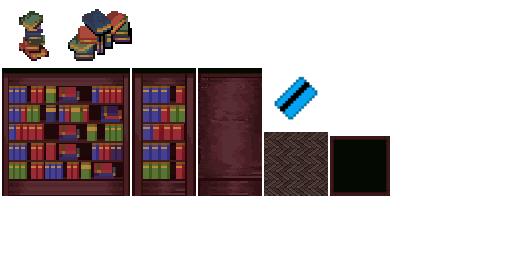
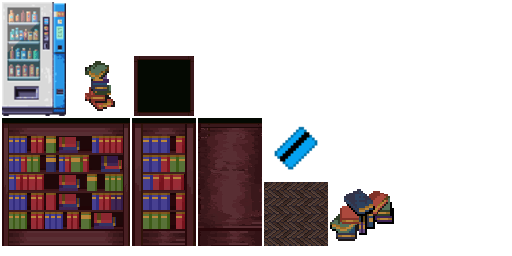
Add EventsCounter for tracking game events; implement vending machine and keycard interactions

diff --git a/core/src/main/java/com/mathochist/mazegame/World/Objects/VendingMachine.java b/core/src/main/java/com/mathochist/mazegame/World/Objects/VendingMachine.java
@@ -1,0 +1,68 @@
+package com.mathochist.mazegame.World.Objects;
+
+import com.badlogic.gdx.Gdx;
+import com.badlogic.gdx.graphics.g2d.Sprite;
+import com.badlogic.gdx.graphics.g2d.SpriteBatch;
+import com.badlogic.gdx.graphics.g2d.TextureAtlas;
+import com.badlogic.gdx.graphics.g2d.TextureRegion;
+import com.mathochist.mazegame.Entities.MapEntity;
+import com.mathochist.mazegame.Entities.Player;
+import com.mathochist.mazegame.Entities.PlayerInventory.InventoryObject;
+import com.mathochist.mazegame.Main;
+import com.mathochist.mazegame.Rendering.RenderBuffer;
+import com.mathochist.mazegame.Rendering.RenderObject;
+import com.mathochist.mazegame.UI.Hud;
+import com.mathochist.mazegame.UI.Speech.SpeechType;
+import com.mathochist.mazegame.World.GameWorld;
+
+public class VendingMachine extends MapEntity {
+
+    private boolean used;
+    private static final long INTERACTION_COOLDOWN_MS = 2000;
+    private long lastInteractionTime = 0;
+
+    public VendingMachine(Main game, SpriteBatch batch, TextureAtlas atlas, Integer TileX, Integer TileY, Integer Width, Integer Height, Boolean collidable) {
+        super(game, batch, atlas, "vending_machine", TileX, TileY, Width, Height, collidable);
+
+        used = game.getPlayerInventory().hasItem(InventoryObject.ENERGY_DRINK); // If player already has energy drink, mark as used
+    }
+
+    @Override
+    public void render(GameWorld world, RenderBuffer renderBuffer) {
+        TextureRegion vmRegion = super.getAtlas().findRegion(super.getRegionName());
+        Sprite vmSprite = new Sprite(vmRegion);
+        vmSprite.setPosition(
+            super.getTileX() * world.getMap().getTileWidth(),
+            Gdx.graphics.getHeight() - ((super.getTileY() + 1) * world.getMap().getTileHeight() + world.tileDrawYOffset + world.getDeltaViewportHeight())
+        );
+        renderBuffer.addToBuffer(new RenderObject(
+            vmSprite,
+            super.getBatch(),
+            (int) super.getTileY() + 2
+        ));
+    }
+
+    @Override
+    public boolean onInteract(Player p, GameWorld world, Hud worldHud) {
+        long currentTime = System.currentTimeMillis();
+        if (currentTime - lastInteractionTime < INTERACTION_COOLDOWN_MS) {
+            return true;
+        }
+        lastInteractionTime = currentTime;
+        if (used) {
+            worldHud.getSpeechBubbleManager().removeBubblesOfType(SpeechType.NPC_SPEECH);
+            worldHud.getSpeechBubbleManager().createSpeechBubble(SpeechType.NPC_SPEECH, "The vending machine is empty.", 2000);
+            return true;
+        }
+        used = true;
+        super.game.getPlayerInventory().addItem(InventoryObject.ENERGY_DRINK);
+        worldHud.getSpeechBubbleManager().removeBubblesOfType(SpeechType.NPC_SPEECH);
+        worldHud.getSpeechBubbleManager().createSpeechBubble(SpeechType.NPC_SPEECH, "You got an energy drink, You are suddenly feeling fast!", 2000);
+        super.game.getEventsCounter().vendingMachineEvent();
+        return true;
+    }
+
+    @Override
+    public void onInteractEnd(Player p, GameWorld world) {} // No action needed on interaction end
+
+}

diff --git a/core/src/main/java/com/mathochist/mazegame/Entities/Player.java b/core/src/main/java/com/mathochist/mazegame/Entities/Player.java
@@ -7,6 +7,8 @@ import com.badlogic.gdx.graphics.g2d.Animation;
 import com.badlogic.gdx.graphics.g2d.Sprite;
 import com.badlogic.gdx.graphics.g2d.SpriteBatch;
 import com.badlogic.gdx.graphics.g2d.TextureRegion;
+import com.mathochist.mazegame.Entities.PlayerInventory.InventoryObject;
+import com.mathochist.mazegame.Main;
 import com.mathochist.mazegame.Movement.KeyBinds;
 import com.mathochist.mazegame.Movement.KeyBuffer;
 import com.mathochist.mazegame.Rendering.RenderBuffer;
@@ -20,6 +22,7 @@ import com.mathochist.mazegame.World.GameWorld;
  */
 // TODO: Refactor to extend Entity class
 public class Player {
+
     private Texture spriteSheet;
     private final Animation<TextureRegion> walkUp, walkDown, walkLeft, walkRight;
     private TextureRegion currentFrame;
@@ -37,6 +40,7 @@ public class Player {
 
     private final OrthographicCamera camera;
     private final GameWorld world;
+    private final Main game;
 
     private boolean is_sprinting = false;
 
@@ -45,8 +49,9 @@ public class Player {
     public final static float SPRITE_HEIGHT = 25;
     public final static float INTERACTION_RANGE = 2; // tiles
 
-    public Player(OrthographicCamera camera, SpriteBatch batch, GameWorld world, float startX, float startY) {
+    public Player(Main game, OrthographicCamera camera, SpriteBatch batch, GameWorld world, float startX, float startY) {
 
+        this.game = game;
         this.camera = camera;
         this.screenBatch = batch;
         this.world = world;
@@ -169,6 +174,11 @@ public class Player {
         if (keyBuffer.isKeyPressed(KeyBinds.ESCAPE_GAME)) {
             // escape logic
             Gdx.app.exit();
+        }
+
+        // check if player has energy drink in inventory for speed boost
+        if (game.getPlayerInventory().hasItem(InventoryObject.ENERGY_DRINK)) {
+            moveSpeed += 150; // speed boost from energy drink
         }
 
         float[] move = keyBuffer.getCameraMove();

diff --git a/core/src/main/java/com/mathochist/mazegame/UI/EventsCounter.java b/core/src/main/java/com/mathochist/mazegame/UI/EventsCounter.java
@@ -1,0 +1,55 @@
+package com.mathochist.mazegame.UI;
+
+import com.badlogic.gdx.graphics.OrthographicCamera;
+import com.badlogic.gdx.graphics.g2d.BitmapFont;
+import com.badlogic.gdx.graphics.g2d.SpriteBatch;
+
+public class EventsCounter {
+
+    private int positiveEvents;
+    private int negativeEvents;
+    private int hiddenEvents;
+
+    private boolean librarySprintEventTriggered;
+    private boolean foundKeycardEventTriggered;
+    private boolean vendingMachineEventTriggered;
+
+    public EventsCounter() {
+        this.positiveEvents = 0;
+        this.negativeEvents = 0;
+        this.hiddenEvents = 0;
+
+        this.librarySprintEventTriggered = false;
+    }
+
+    public void librarySprintEvent() {
+        if (librarySprintEventTriggered) {
+            return;
+        }
+        this.hiddenEvents += 1;
+        this.librarySprintEventTriggered = true;
+    }
+
+    public void foundKeycardEvent() {
+        if (foundKeycardEventTriggered) {
+            return;
+        }
+        this.negativeEvents += 1;
+        this.foundKeycardEventTriggered = true;
+    }
+
+    public void vendingMachineEvent() {
+        if (vendingMachineEventTriggered) {
+            return;
+        }
+        this.positiveEvents += 1;
+        this.vendingMachineEventTriggered = true;
+    }
+
+    public void renderEventsCounterToHUD(SpriteBatch hudBatch, OrthographicCamera camera, BitmapFont font) {
+        font.draw(hudBatch, "Positive Events: " + positiveEvents, 2, camera.viewportHeight - 15);
+        font.draw(hudBatch, "Negative Events: " + negativeEvents, 2, camera.viewportHeight - 30);
+        font.draw(hudBatch, "Hidden Events: " + hiddenEvents, 2, camera.viewportHeight - 45);
+    }
+
+}

diff --git a/core/src/main/java/com/mathochist/mazegame/Screens/Game/LibraryScreen.java b/core/src/main/java/com/mathochist/mazegame/Screens/Game/LibraryScreen.java
@@ -24,7 +24,7 @@ public class LibraryScreen extends BaseGameScreen {
         super.getCamera().position.set(spawnPoint[0], spawnPoint[1], 0);
         super.getCamera().update();
 
-        super.setPlayer(new Player(super.getCamera(), super.getScreenBatch(), super.getWorld(), spawnPoint[0], spawnPoint[1]));
+        super.setPlayer(new Player(game, super.getCamera(), super.getScreenBatch(), super.getWorld(), spawnPoint[0], spawnPoint[1]));
     }
 
     public LibraryScreen(Main game, Float spawnX, Float spawnY) {
@@ -41,7 +41,7 @@ public class LibraryScreen extends BaseGameScreen {
         super.getCamera().position.set(spawnPixels[0], spawnPixels[1], 0);
         super.getCamera().update();
 
-        super.setPlayer(new Player(super.getCamera(), super.getScreenBatch(), super.getWorld(), spawnPixels[0], spawnPixels[1]));
+        super.setPlayer(new Player(game, super.getCamera(), super.getScreenBatch(), super.getWorld(), spawnPixels[0], spawnPixels[1]));
     }
 
     @Override
@@ -83,6 +83,7 @@ public class LibraryScreen extends BaseGameScreen {
                     game.getTimerManager().addPenalty(5); // 5 second penalty for sprinting
                     timeSinceLastSprintPenalty = System.currentTimeMillis();
                 }
+                game.getEventsCounter().librarySprintEvent();
             }
 
         } catch (GdxRuntimeException ignored) {} // Ignore GDX runtime exceptions during screen transitions

diff --git a/core/src/main/java/com/mathochist/mazegame/UI/Hud.java b/core/src/main/java/com/mathochist/mazegame/UI/Hud.java
@@ -4,6 +4,7 @@ import com.badlogic.gdx.Gdx;
 import com.badlogic.gdx.graphics.OrthographicCamera;
 import com.badlogic.gdx.graphics.g2d.BitmapFont;
 import com.badlogic.gdx.graphics.g2d.SpriteBatch;
+import com.badlogic.gdx.graphics.g2d.TextureAtlas;
 import com.mathochist.mazegame.Main;
 import com.mathochist.mazegame.UI.Speech.SpeechBubbleManager;
 
@@ -15,6 +16,8 @@ public class Hud {
     private SpriteBatch hudBatch;
     private BitmapFont small_font;
     private BitmapFont main_font;
+
+    private TextureAtlas gameUIAtlas;
 
     private SpeechBubbleManager speechBubbleManager;
 
@@ -33,6 +36,8 @@ public class Hud {
         main_font.getData().setScale(1.0f);
 
         speechBubbleManager = new SpeechBubbleManager(hudBatch, hudCamera, main_font);
+
+        gameUIAtlas = new TextureAtlas(Gdx.files.internal("game_ui/game_ui.atlas"));
 
     }
 
@@ -62,6 +67,8 @@ public class Hud {
 
         // draw time elapsed in top right corner
         game.getTimerManager().renderToHUD(main_font, hudBatch, hudCamera);
+        game.getPlayerInventory().render(hudBatch, hudCamera, gameUIAtlas);
+        game.getEventsCounter().renderEventsCounterToHUD(hudBatch, hudCamera, small_font);
 
         hudBatch.end();
 

diff --git a/core/src/main/java/com/mathochist/mazegame/Main.java b/core/src/main/java/com/mathochist/mazegame/Main.java
@@ -4,6 +4,7 @@ import com.badlogic.gdx.Game;
 import com.badlogic.gdx.Gdx;
 import com.mathochist.mazegame.Entities.PlayerInventory.Inventory;
 import com.mathochist.mazegame.Screens.TitleScreen;
+import com.mathochist.mazegame.UI.EventsCounter;
 import com.mathochist.mazegame.UI.Timer.TimerManager;
 
 /*
@@ -38,6 +39,7 @@ public class Main extends Game {
 
     private TimerManager timerManager;
     private Inventory playerInventory;
+    private EventsCounter eventsCounter;
 
     /**
      * Initializes the game by setting the initial screen to the TitleScreen.
@@ -54,6 +56,7 @@ public class Main extends Game {
 
         timerManager = new TimerManager();
         playerInventory = new Inventory();
+        eventsCounter = new EventsCounter();
 
         // Set the initial screen to the title screen
         setScreen(new TitleScreen(this));
@@ -74,6 +77,10 @@ public class Main extends Game {
 
     public Inventory getPlayerInventory() {
         return playerInventory;
+    }
+
+    public EventsCounter getEventsCounter() {
+        return eventsCounter;
     }
 
 }

diff --git a/core/src/main/java/com/mathochist/mazegame/Screens/Game/OutdoorScreen.java b/core/src/main/java/com/mathochist/mazegame/Screens/Game/OutdoorScreen.java
@@ -20,7 +20,7 @@ public class OutdoorScreen extends BaseGameScreen {
         super.getCamera().position.set(spawnPoint[0], spawnPoint[1], 0);
         super.getCamera().update();
 
-        super.setPlayer(new Player(super.getCamera(), super.getScreenBatch(), super.getWorld(), spawnPoint[0], spawnPoint[1]));
+        super.setPlayer(new Player(game, super.getCamera(), super.getScreenBatch(), super.getWorld(), spawnPoint[0], spawnPoint[1]));
     }
 
     public OutdoorScreen(Main game, Float spawnX, Float spawnY) {
@@ -37,7 +37,7 @@ public class OutdoorScreen extends BaseGameScreen {
         super.getCamera().position.set(spawnPixels[0], spawnPixels[1], 0);
         super.getCamera().update();
 
-        super.setPlayer(new Player(super.getCamera(), super.getScreenBatch(), super.getWorld(), spawnPixels[0], spawnPixels[1]));
+        super.setPlayer(new Player(game, super.getCamera(), super.getScreenBatch(), super.getWorld(), spawnPixels[0], spawnPixels[1]));
     }
 
     @Override

diff --git a/core/src/main/java/com/mathochist/mazegame/Entities/PlayerInventory/Inventory.java b/core/src/main/java/com/mathochist/mazegame/Entities/PlayerInventory/Inventory.java
@@ -1,5 +1,9 @@
 package com.mathochist.mazegame.Entities.PlayerInventory;
 
+import com.badlogic.gdx.graphics.OrthographicCamera;
+import com.badlogic.gdx.graphics.g2d.SpriteBatch;
+import com.badlogic.gdx.graphics.g2d.TextureAtlas;
+
 import java.util.ArrayList;
 
 public class Inventory {
@@ -24,6 +28,16 @@ public class Inventory {
 
     public void clear() {
         items.clear();
+    }
+
+    public void render(SpriteBatch batch, OrthographicCamera camera, TextureAtlas gameUIAtlas) {
+        int startX = 10;
+        int startY = 10;
+        int itemSize = 32;
+        for (int i = 0; i < items.size(); i++) {
+            InventoryObject item = items.get(i);
+            batch.draw(gameUIAtlas.findRegion(item.getObjectName()), startX + i * (itemSize + 5), startY, itemSize, itemSize);
+        }
     }
 
 }

diff --git a/core/src/main/java/com/mathochist/mazegame/Screens/IntroScreen.java b/core/src/main/java/com/mathochist/mazegame/Screens/IntroScreen.java
@@ -56,11 +56,11 @@ public class IntroScreen extends DefaultScreen {
         textTable.add(settingSceneLabel).padBottom(10);
         textTable.row();
 
-        Label instructionLabel = new Label("Find your way out before you get caught!", uiSkin.getSkin(), "game_font");
+        Label instructionLabel = new Label("Find your lost keycard and get out before you get caught!", uiSkin.getSkin(), "game_font");
         textTable.add(instructionLabel).padBottom(10);
         textTable.row();
 
-        Label timeLabel = new Label("You have 5 minutes to escape!", uiSkin.getSkin(), "game_font");
+        Label timeLabel = new Label("You have 5 minutes to escape the uni!", uiSkin.getSkin(), "game_font");
         textTable.add(timeLabel).padBottom(10);
         textTable.row();
 

diff --git a/core/src/main/java/com/mathochist/mazegame/World/Objects/Keycard.java b/core/src/main/java/com/mathochist/mazegame/World/Objects/Keycard.java
@@ -34,6 +34,7 @@ public class Keycard extends MapEntity {
         super.game.getPlayerInventory().addItem(InventoryObject.KEYCARD);
         worldHud.getSpeechBubbleManager().removeBubblesOfType(SpeechType.NPC_SPEECH);
         worldHud.getSpeechBubbleManager().createSpeechBubble(SpeechType.NPC_SPEECH, "Keycard collected!", 2000);
+        game.getEventsCounter().foundKeycardEvent();
         return true; // Keycards are collectible
     }
 

diff --git a/core/src/main/java/com/mathochist/mazegame/Entities/PlayerInventory/InventoryObject.java b/core/src/main/java/com/mathochist/mazegame/Entities/PlayerInventory/InventoryObject.java
@@ -3,6 +3,7 @@ package com.mathochist.mazegame.Entities.PlayerInventory;
 public enum InventoryObject {
 
     KEYCARD(false, "keycard"),
+    ENERGY_DRINK(false, "energy_drink"),
     FLASHLIGHT(true, "flashlight"),
     BATTERY(true, "battery"),
     MAP(false, "map"),

diff --git a/core/src/main/java/com/mathochist/mazegame/World/GameWorld.java b/core/src/main/java/com/mathochist/mazegame/World/GameWorld.java
@@ -50,7 +50,6 @@ public class GameWorld {
 
     // For resizing
     private float deltaViewportHeight;
-    private final float blockCollisionPadding = 4f; // pixels
 
     // Debug
     private boolean debug = false;
